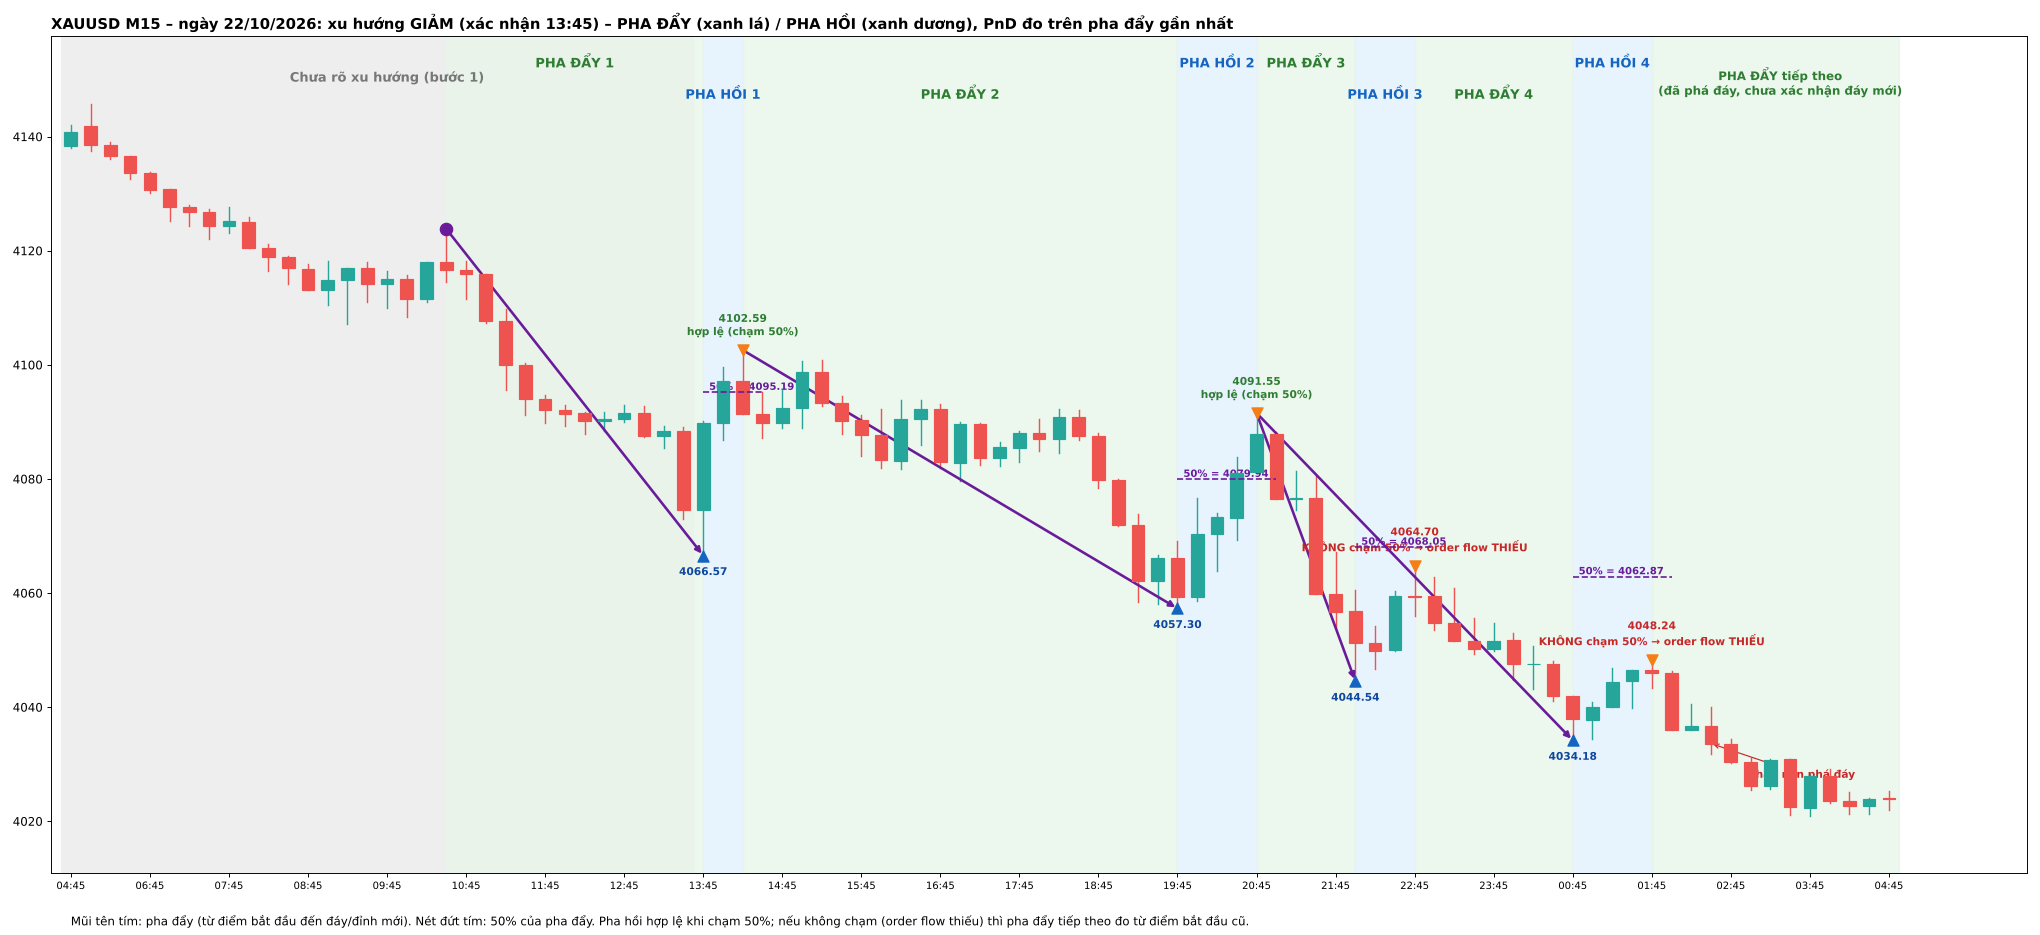
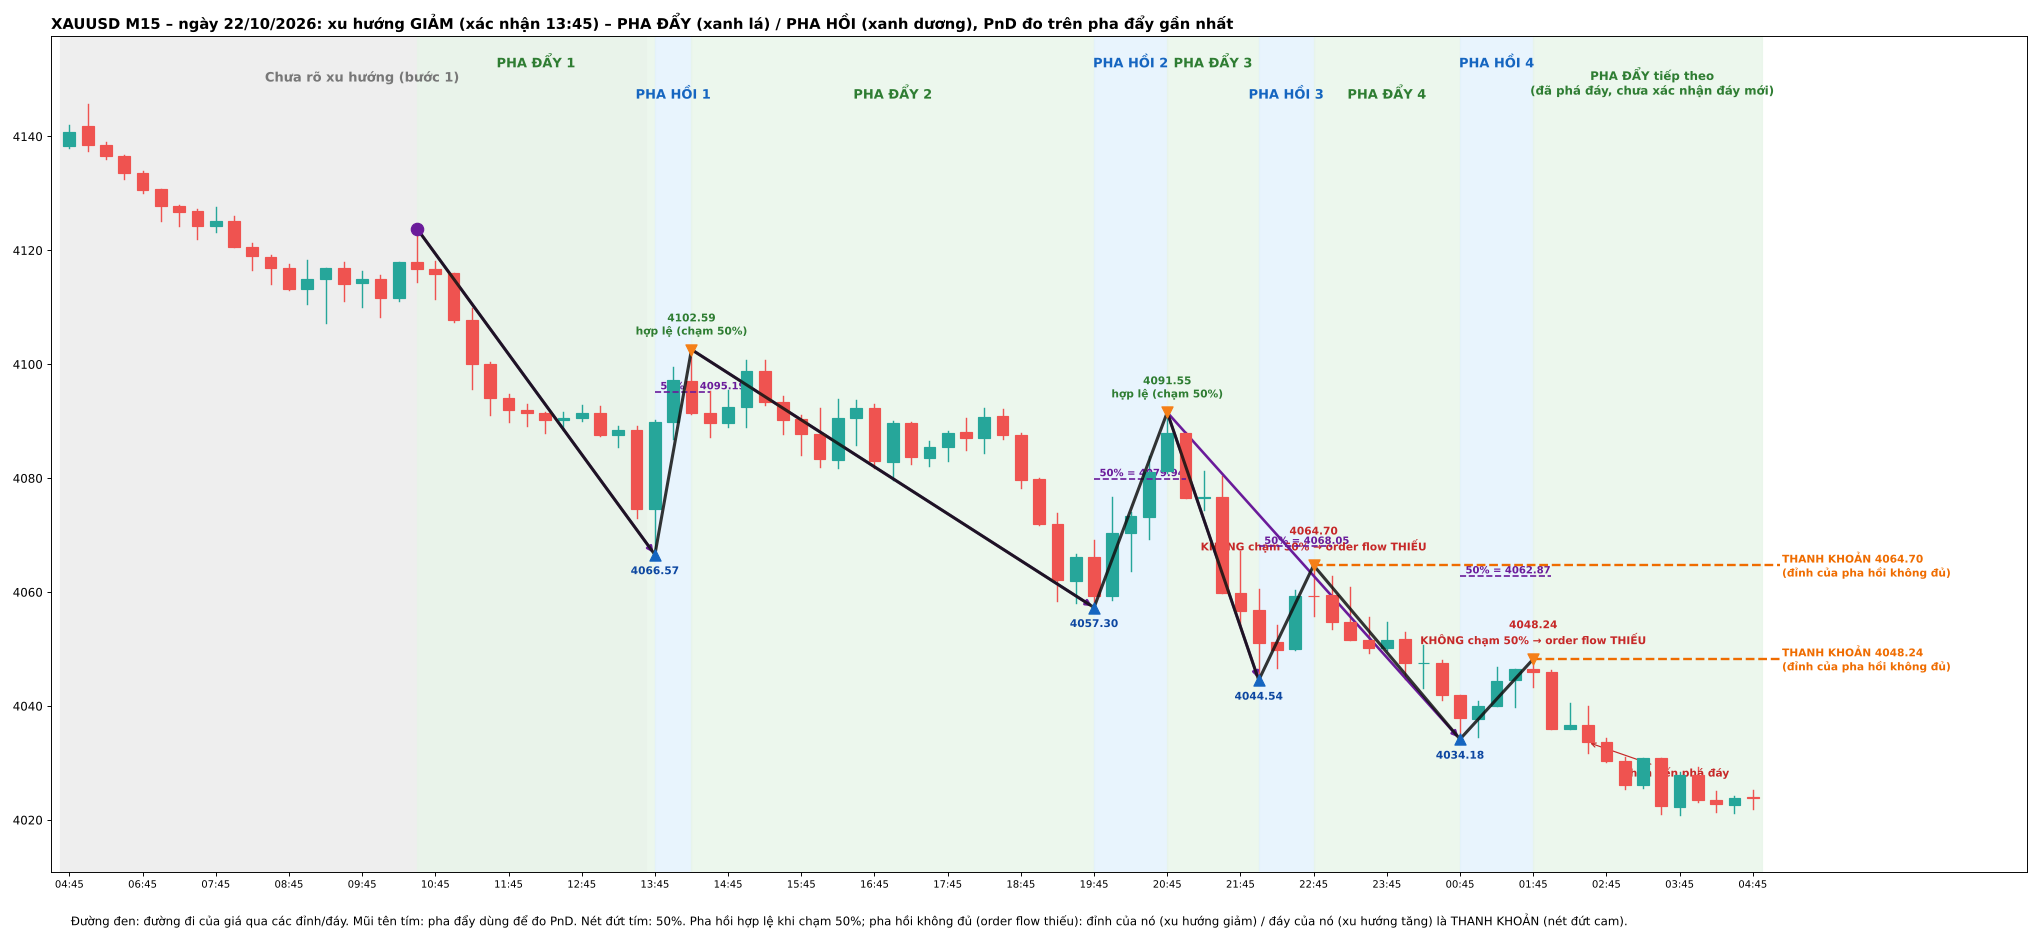
Pha hồi không đủ: đỉnh (giảm) / đáy (tăng) là thanh khoản; vẽ lại ngày 22/10 với đường giá và thanh khoản
Claude-Session: https://claude.ai/code/session_01QDQqkxbAsnss6apbWZAP33

diff --git a/tools/ve_pha_ngay.py b/tools/ve_pha_ngay.py
@@ -40,7 +40,7 @@ for i, x in enumerate(seg):
 ax.axvspan(-.5, CONF - .5, color="#eeeeee", zorder=0)
 ax.text(CONF / 2, max(x.h for x in seg) + 4, "Chưa rõ xu hướng (bước 1)", ha="center", fontsize=11, fontweight="bold", color="#777")
 start_i, start_p = pts[0]
-rows = []
+rows = []; liq = []
 for q in range(0, len(pts) - 1, 2):
     a_i, a_p = (start_i, start_p)
     b_i, b_p = pts[q + 1]
@@ -66,20 +66,27 @@ for q in range(0, len(pts) - 1, 2):
         rows.append((nr, seg[a_i].t[11:], a_p, seg[b_i].t[11:], b_p, mid, seg[h_i].t[11:], h_p, touched))
         if touched:
             start_i, start_p = h_i, h_p
+        else:
+            liq.append((h_i, h_p))
     ax.scatter([b_i], [b_p], s=90, color="#f57f17" if up else "#1565c0", marker="v" if up else "^", zorder=6)
     ax.text(b_i, b_p + (2 if up else -2), f"{b_p:.2f}", ha="center", va="bottom" if up else "top", fontsize=9, fontweight="bold", color="#0d47a1")
 ax.scatter([pts[0][0]], [pts[0][1]], s=110, color="#6a1b9a", zorder=6)
+# đường zigzag nối tất cả đỉnh/đáy (kể cả đỉnh/đáy của pha hồi không đủ)
+ax.plot([p[0] for p in pts], [p[1] for p in pts], color="#111", lw=2.6, zorder=5, alpha=.85)
+for h_i, h_p in liq:
+    ax.plot([h_i, n + .5], [h_p, h_p], color="#ef6c00", lw=2, ls="--", zorder=5)
+    ax.text(n + .6, h_p, f"THANH KHOẢN {h_p:.2f}\n({'đỉnh' if not up else 'đáy'} của pha hồi không đủ)", fontsize=9, fontweight="bold", color="#ef6c00", va="center")
 if tail_push:
     j, sc = tail_push
     ax.axvspan(j, n - .5, color="#e8f5e9", alpha=.8, zorder=0)
     ax.text((j + n) / 2, max(x.h for x in seg) + 1, "PHA ĐẨY tiếp theo\n(đã phá đáy, chưa xác nhận đáy mới)", ha="center", fontsize=10, fontweight="bold", color="#2e7d32", va="bottom")
     ax.annotate("thân nến phá đáy", xy=(sc, seg[sc].c), xytext=(sc + 2, seg[sc].c - 6), fontsize=9, color="#c62828", fontweight="bold", arrowprops=dict(arrowstyle="->", color="#c62828"))
 ticks = list(range(0, n, 4)); ax.set_xticks(ticks); ax.set_xticklabels([seg[i].t[11:] for i in ticks], fontsize=8.5)
-ax.set_xlim(-1, n + 6); ax.set_ylim(min(x.l for x in seg) - 10, max(x.h for x in seg) + 12)
+ax.set_xlim(-1, n + 14); ax.set_ylim(min(x.l for x in seg) - 10, max(x.h for x in seg) + 12)
 ax.set_title(f"XAUUSD M15 – ngày {seg[1].t[8:10]}/{seg[1].t[5:7]}/{seg[1].t[:4]}: xu hướng {'TĂNG' if up else 'GIẢM'} (xác nhận {seg[CONF].t[11:]}) – PHA ĐẨY (xanh lá) / PHA HỒI (xanh dương), "
              "PnD đo trên pha đẩy gần nhất", loc="left", fontsize=12.5, fontweight="bold")
-ax.text(.01, -.05, "Mũi tên tím: pha đẩy (từ điểm bắt đầu đến đáy/đỉnh mới). Nét đứt tím: 50% của pha đẩy. Pha hồi hợp lệ khi chạm 50%; "
-        "nếu không chạm (order flow thiếu) thì pha đẩy tiếp theo đo từ điểm bắt đầu cũ.", transform=ax.transAxes, va="top", fontsize=10)
+ax.text(.01, -.05, "Đường đen: đường đi của giá qua các đỉnh/đáy. Mũi tên tím: pha đẩy dùng để đo PnD. Nét đứt tím: 50%. Pha hồi hợp lệ khi chạm 50%; "
+        "pha hồi không đủ (order flow thiếu): đỉnh của nó (xu hướng giảm) / đáy của nó (xu hướng tăng) là THANH KHOẢN (nét đứt cam).", transform=ax.transAxes, va="top", fontsize=10)
 plt.tight_layout(); out = f"backtest/pha-day-hoi-{DAY}.png"; plt.savefig(out, dpi=85)
 print(out)
 for row in rows: print(row)

diff --git a/knowledge/03-setup.md b/knowledge/03-setup.md
@@ -107,7 +107,8 @@ Ví dụ chart thật: `examples/01-dinh-day-xauusd-h4.jpg`
 - **Pha hồi:** sau khi giá phá đỉnh/đáy, giá **hồi về một vùng giá nào đó** rồi mới tiếp tục đẩy. Tương ứng **phase 1 và phase 3** cũ.
 - PnD đo trên **pha đẩy gần nhất**; **pha hồi hợp lệ khi chạm ít nhất 50%**; hồi không đủ mà đẩy tiếp luôn → **order flow thiếu** (đã xác nhận).
 - **Khai thác pha đẩy** (thuận xu hướng): vào lệnh ở **cuối pha hồi**. **Khai thác pha hồi** (ngược xu hướng): chốt lời toàn bộ khi giá chạm **POI có giá trị gần nhất** (đã xác nhận).
-- Minh họa trên dữ liệu thật: `backtest/pha-day-hoi-2026-10-22.png` (chờ duyệt).
+- **Pha hồi không đủ (đã xác nhận):** mục đích chủ yếu là **tìm vùng thanh khoản**. Xu hướng **giảm**: **đỉnh** của pha hồi không đủ là **thanh khoản**. Xu hướng **tăng**: **đáy** của pha hồi không đủ là thanh khoản. Đường giá đi qua cả đỉnh/đáy của pha hồi không đủ (đường đen do người dùng vẽ trên ngày 22/10).
+- Minh họa trên dữ liệu thật: `backtest/pha-day-hoi-2026-10-22.png`.
 - Cách hiểu của Claude: pha đẩy bắt đầu từ điểm cực trị của pha hồi trước (đáy tạo ra đỉnh mới khi tăng) và kết thúc tại đỉnh/đáy mới; PnD đo trên pha đẩy gần nhất; các quy tắc phase 1–4 bên dưới vẫn áp dụng theo tương ứng.
 
 
